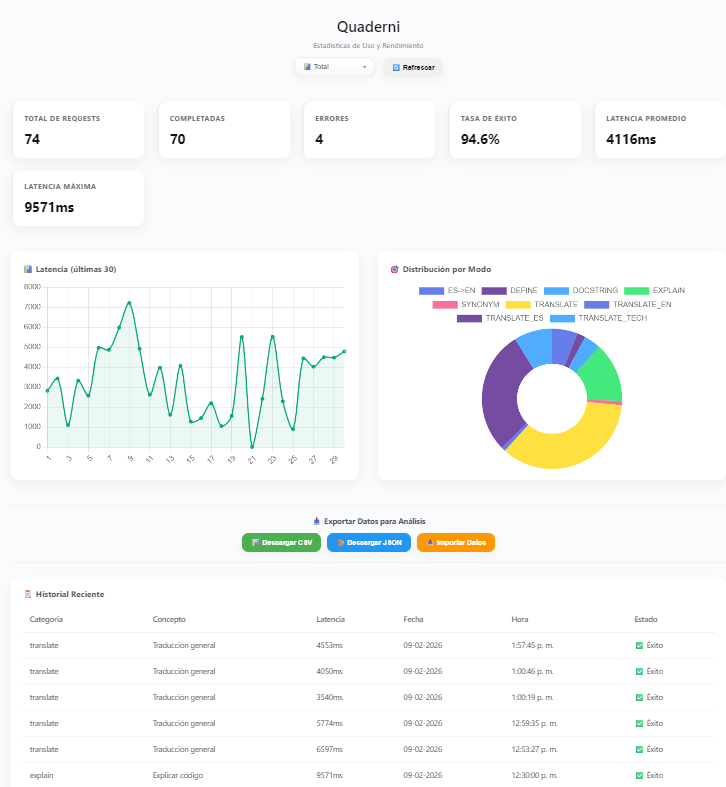
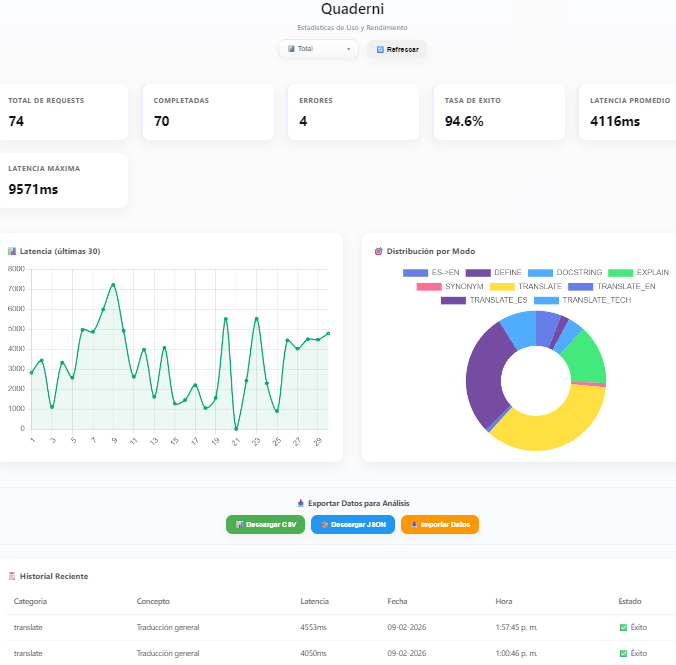
Dashboard optimizado (stats.js + README)
- MAX_HISTORY_ROWS=20 UI, gráficos optimizados
- README: 'Dashboard y Análisis de Rendimiento'
- Historial completo CSV/JSON export

diff --git a/stats.js b/stats.js
@@ -21,7 +21,7 @@ let lastLoadedStats = null;
 
 // ============ CONFIG (Modo liviano) ============
 const ENABLE_CHARTS = true; //cambiar a false para desactivar gráficos.
-const MAX_HISTORY_ROWS = 20;
+const MAX_HISTORY_ROWS = 30;
 
 // SISTEMA DE FILTRADO
 /**

diff --git a/Readme.md b/Readme.md
@@ -26,7 +26,7 @@ Esta herramienta actúa como una capa de asistencia "en la punta del mouse", per
 | ![Explicación de Código](img/img_ex1.png) | ![Traducción Técnica](img/img_ex2.png) |
 
 **Dashboard y Análisis de Rendimiento:**
-Visualización en tiempo real de métricas de latencia y éxito de las últimas 20 consultas. El usuario puede analizar sus propios datos, estudiar los tiempos de respuesta de los modelos locales y ajustar sus prompts (instrucciones) para optimizar los resultados según sus objetivos.
+Visualización en tiempo real de latencia, tasa de éxito y las últimas 30 consultas ejecutadas. Además, Quaderni mantiene un historial completo de uso que puedes exportar en formato CSV o JSON para analizar tus propios datos, estudiar la evolución de los tiempos de respuesta de tus modelos locales y ajustar prompts o configuraciones según tus objetivos.
 
 ![Panel de Estadísticas](img/img_panel.png)
 
